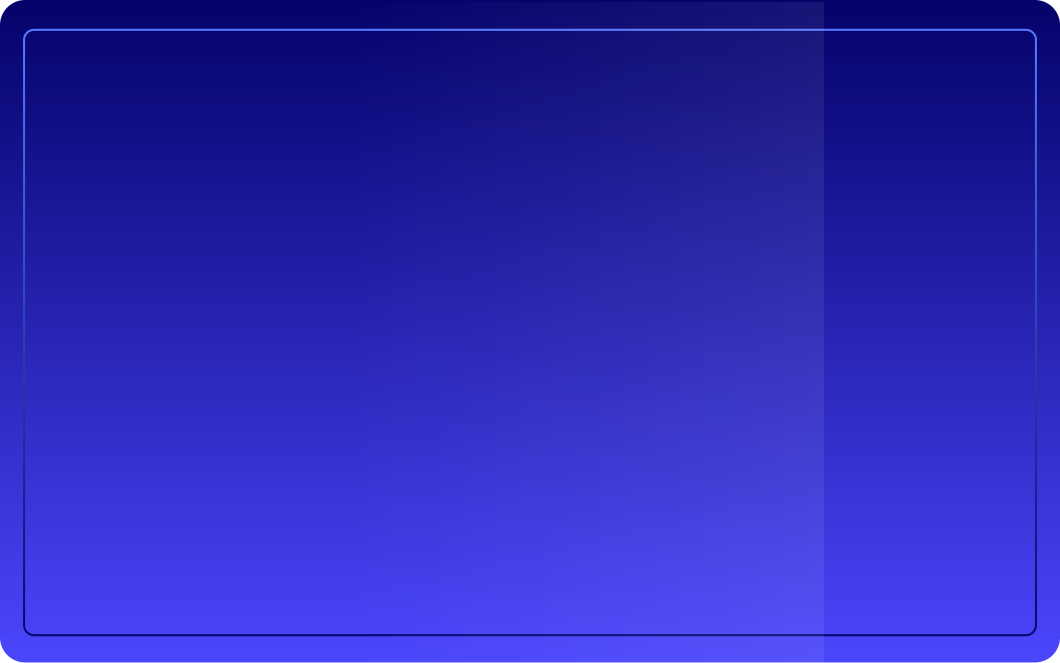
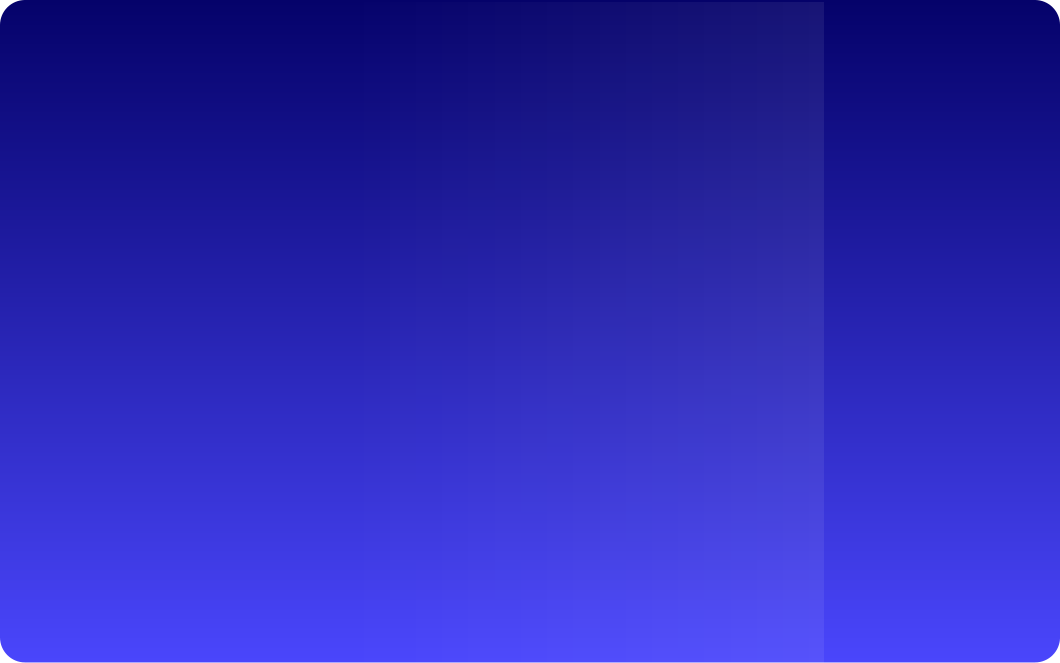
個資、注意事項彈窗完成。好棒棒!

Changed region(s): [[0.0311, 0.9351, 0.9651, 0.9653], [0.0311, 0.0302, 0.9651, 0.0603]]

diff --git a/components/Notice_popup.vue b/components/Notice_popup.vue
@@ -271,33 +271,58 @@ const closeModal = () => {
     justify-content: center;
     align-items: center;
     z-index: 1000;
-    padding: 20px;
+    padding: 12px;
   }
 
   &__popup {
-    background-image: url("/imgs/notice_bg.png");
-    background-size: cover;
-    background-position: center;
-    background-repeat: no-repeat;
+    background: linear-gradient(to bottom, #05026a, #4a46fc);
     border: 3px solid #d8ceff;
     border-radius: 25px;
     max-width: 1060px;
-    max-height: 660px;
+    max-height: 700px;
     position: relative;
-    overflow: hidden;
+    // overflow: hidden;
     animation: modalAppear 0.3s ease-out;
+    padding: 20px;
+    @media (max-width: 480px) {
+      border: none;
+    }
+    @media (max-width: 360px) {
+      padding: 10px;
+    }
+    &::before {
+      content: "";
+      position: absolute;
+      width: 80%;
+      height: 100%;
+      top: 0;
+      left: 0;
+      background: rgba($color: #fff, $alpha: 0.05);
+    }
   }
 
   &__popup-inner {
-    padding: 20px;
     position: relative;
     padding: 60px 50px;
+    border-radius: 20px;
+    border: 2px solid #577cff;
+    z-index: 0;
+    @media (max-width: 768px) {
+      padding: 40px 30px;
+    }
+    @media (max-width: 480px) {
+      padding: 30px 20px;
+      border: 2px solid #06056a;
+    }
+    @media (max-width: 360px) {
+      padding: 20px 10px;
+    }
   }
 
   &__close-btn {
     position: absolute;
-    top: 15px;
-    right: 15px;
+    top: -12px;
+    right: -12px;
     width: 40px;
     height: 40px;
     border: none;
@@ -310,6 +335,14 @@ const closeModal = () => {
     transition: all 0.2s ease;
     color: white;
     z-index: 10;
+    @media (max-width: 480px) {
+      top: -32px;
+      right: -32px;
+    }
+    @media (max-width: 360px) {
+      top: -24px;
+      right: -24px;
+    }
 
     &:hover {
       transform: scale(1.1);
@@ -326,11 +359,20 @@ const closeModal = () => {
   }
 
   &__content {
-    padding: 2px;
+    padding: 2px 50px 2px 2px;
     height: 500px;
     color: #fff;
     font-size: 18px;
     overflow-y: scroll;
+    @media (max-width: 768px) {
+      padding: 2px 30px 2px 2px;
+    }
+    @media (max-width: 480px) {
+      padding: 2px 20px 2px 2px;
+    }
+    @media (max-width: 360px) {
+      padding: 2px 10px 2px 2px;
+    }
 
     p {
       margin-bottom: 10px;

diff --git a/components/Banner.vue b/components/Banner.vue
@@ -250,7 +250,7 @@ function handleDivination() {
     border-radius: 50%;
     aspect-ratio: 1 / 1;
     cursor: pointer;
-    border: 2px solid rgb(255, 255, 255);
+    // border: 2px solid rgb(255, 255, 255);
     @media (max-width: 1535px) {
       right: 17.7%;
       top: 36%;

diff --git a/components/Nav_container.vue b/components/Nav_container.vue
@@ -13,8 +13,5 @@
   margin: 0 auto;
   padding: 0 12px;
   box-sizing: border-box;
-  @media (max-width: 480px) {
-    padding: 0 4px;
-  }
 }
 </style>
